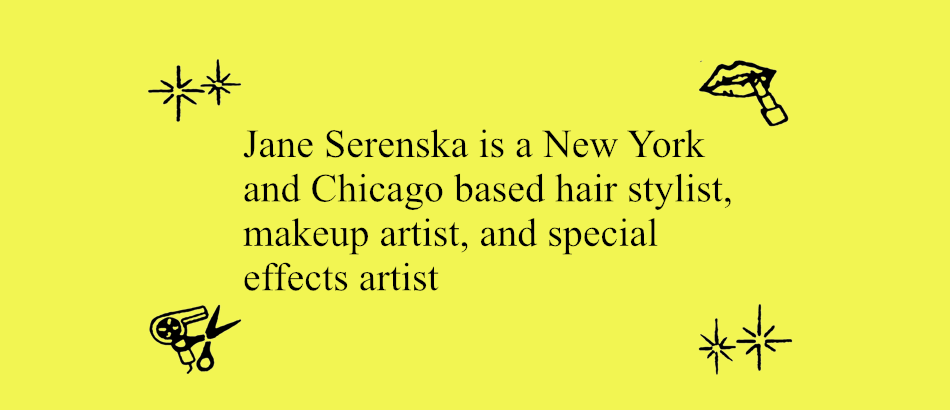
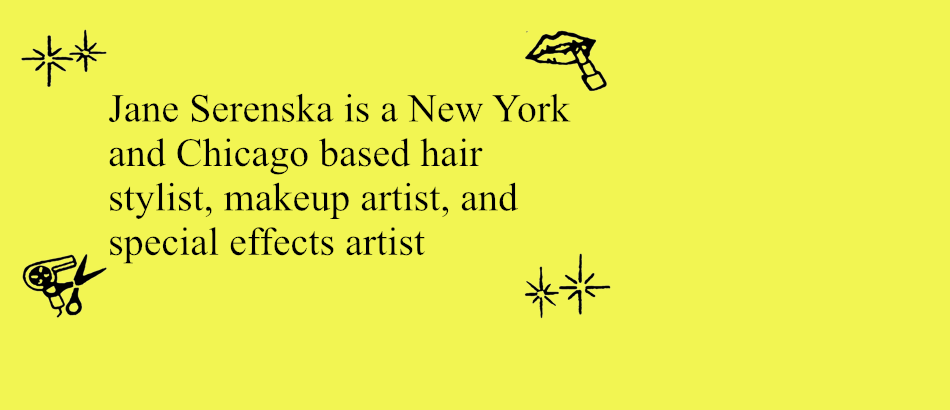
update for 4k resolution

diff --git a/styles.css b/styles.css
@@ -1977,7 +1977,7 @@ header {
     background-image: url("ocean.gif");
     width: 89%; /* Now spans the full width of its parent */
     height: 5px;
-    margin: 0rem 0rem 0rem 0rem;
+    margin: 1rem 0rem 0rem 0rem;
 }
 
 /* Titles */
@@ -2009,8 +2009,8 @@ header {
 
 .jspaint {
     position: relative;
-    min-height: 35vh;
-    min-width: 35vw;
+    min-height: 29vh;
+    min-width: 29vw;
     margin: auto;
 }
 
@@ -2028,11 +2028,9 @@ header {
 /* Bio Card */
 .bio-card {
         /* Adjusted height for more content space */
-        min-height: 320px; 
-        max-height: 350px; /* Increased max height */
-        width: 75%; 
-        min-height: 37.2vh;
-        min-width: 35vw;
+        width: 100%; 
+        min-height: 30vh;
+        min-width: 30vw;
     }
 
 .bio-card-2 {
